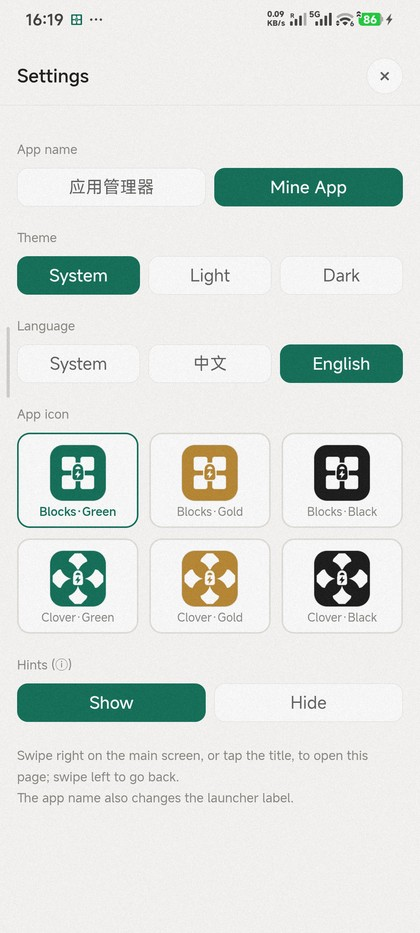
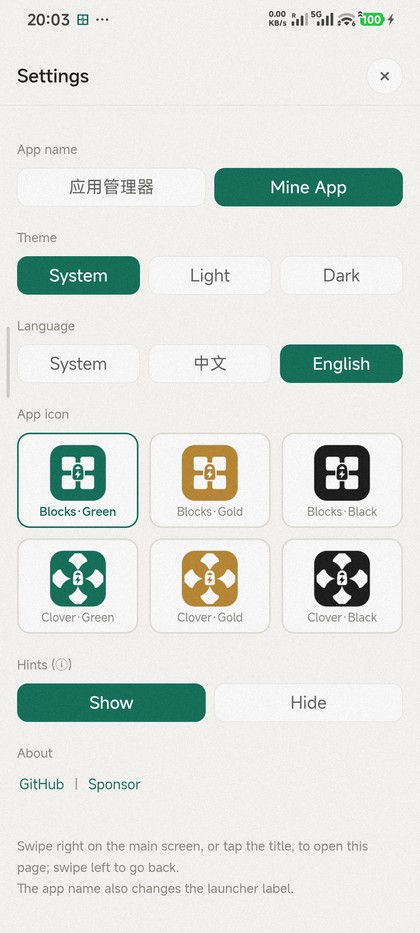
设置页加「GitHub 官方 | 打赏与资助」，截图全部按新版重拍，功能表补新能力
- 设置页新增「关于」区块：GitHub 官方 | 打赏与资助。链接跟随界面语言
  （中文 → 仓库首页 / 英文 → README.en.md），打赏直接跳赞助小节锚点
- MainActivity 加 shouldOverrideUrlLoading：http(s) 外链交给系统浏览器，
  否则 WebView 会直接跳走把 App 界面顶掉
- 四张截图全部重拍（中/英 × 主界面/设置页），换成运存排序视图，
  能看到绿点、× 清理按钮、已限制标签
- 功能表新增：活跃监测（呼吸绿点）、单应用清理（am kill 不动自启动）、应用名解析
- 常驻通知一行补充 3s/60s 双频刷新
- 导语点明中文名「应用管理器」；「逆向能效优化」改为更通俗的「增效提速·降能耗」

diff --git a/termux/webui/server.py b/termux/webui/server.py
@@ -524,6 +524,11 @@ animation:dotPulse 2.2s ease-in-out infinite}
 font-size:14px;color:var(--ink3);border:1px solid var(--track);cursor:pointer;
 user-select:none;-webkit-tap-highlight-color:transparent;transition:background .12s,color .12s}
 .kill-x:active{background:var(--track);color:var(--ink)}
+/* 设置页外链：跳到浏览器打开，不在 WebView 里替换界面 */
+.ext-row{display:flex;align-items:center;gap:8px;padding:2px 0 10px;font-size:13px}
+.ext{color:#0f6e56;text-decoration:none;padding:6px 2px;border-radius:6px}
+.ext:active{background:var(--track)}
+.ext-sep{color:var(--ink3);font-size:12px}
 .refresh{transform-origin:50% 50%;will-change:transform}
 .refresh.spinning{color:#0f6e56}
 .aot-lb{flex:none;font-size:11px;color:var(--ink3);font-family:ui-monospace,monospace;
@@ -680,6 +685,12 @@ color:var(--ink3);cursor:pointer;user-select:none}
       <button class="seg" data-tip="1" data-t="tipShow">显示</button>
       <button class="seg" data-tip="0" data-t="tipHide">隐藏</button>
     </div>
+    <div class="sec" data-t="secAbout">关于</div>
+    <div class="ext-row">
+      <a class="ext" id="lnkRepo" href="https://github.com/henry-97/MineApp">GitHub 官方</a>
+      <span class="ext-sep">|</span>
+      <a class="ext" id="lnkFund" href="https://github.com/henry-97/MineApp#赞助">打赏与资助</a>
+    </div>
     <div class="info-note" style="border-top:0"><span data-t="setEntry">左滑主界面或点标题可再次进入本页。</span><br>
       <span data-t="setNameNote">应用名称会同时改变桌面图标的名称。</span></div>
   </div>
@@ -785,6 +796,7 @@ var I18N = {
     setNameNote: '应用名称会同时改变桌面图标的名称。',
     perfTip: '性能模式',
     secTip: '界面提示（ⓘ）', tipShow: '显示', tipHide: '隐藏',
+    secAbout: '关于', extRepo: 'GitHub 官方', extFund: '打赏与资助',
     secIcon: '应用图标',
     icSq: '方块', icCl: '四叶草', icG: '墨绿', icY: '金色', icK: '黑色',
     tIconOk: '图标已切换，桌面可能需要几秒刷新', tIconFail: '图标切换失败',
@@ -872,6 +884,7 @@ var I18N = {
     setNameNote: 'The app name also changes the launcher label.',
     perfTip: 'Performance',
     secTip: 'Hints (ⓘ)', tipShow: 'Show', tipHide: 'Hide',
+    secAbout: 'About', extRepo: 'GitHub', extFund: 'Sponsor',
     secIcon: 'App icon',
     icSq: 'Blocks', icCl: 'Clover', icG: 'Green', icY: 'Gold', icK: 'Black',
     tIconOk: 'Icon changed; the launcher may take a few seconds', tIconFail: 'Failed to change icon',
@@ -927,6 +940,25 @@ function applyLang(){
   if (bt) bt.innerHTML = T('perfTip') + ' <i class="tip-i">ⓘ</i>';
   var ph = document.querySelectorAll('[data-tp]');
   for (var j = 0; j < ph.length; j++) ph[j].setAttribute('placeholder', T(ph[j].getAttribute('data-tp')));
+  applyExtLinks();
+}
+
+/* 设置页的 GitHub / 打赏链接：跟着界面语言走。
+   中文 → 仓库首页（默认渲染 README.md）；英文 → README.en.md。
+   「打赏与资助」直接跳到 README 里的赞助小节锚点。 */
+var GH = 'https://github.com/henry-97/MineApp';
+function applyExtLinks(){
+  var en = (lang() === 'en');
+  var repo = document.getElementById('lnkRepo');
+  var fund = document.getElementById('lnkFund');
+  if (repo){
+    repo.textContent = T('extRepo');
+    repo.setAttribute('href', en ? (GH + '/blob/main/README.en.md') : GH);
+  }
+  if (fund){
+    fund.textContent = T('extFund');
+    fund.setAttribute('href', en ? (GH + '/blob/main/README.en.md#sponsorship') : (GH + '#赞助'));
+  }
 }
 
 /* ---------- 名称与主题（设置页） ---------- */

diff --git a/appmanager/src/java/com/henry/appmanager/MainActivity.java b/appmanager/src/java/com/henry/appmanager/MainActivity.java
@@ -80,6 +80,35 @@ public class MainActivity extends Activity {
             public void onPageFinished(WebView view, String url) {
                 injectInsets();
             }
+
+            /**
+             * 设置页的 GitHub / 打赏是 http(s) 外链。不拦的话 WebView 会直接跳过去，
+             * 整个 App 界面就被网页顶掉了，返回键也回不来。这里统一交给系统浏览器。
+             */
+            @Override
+            public boolean shouldOverrideUrlLoading(WebView view, android.webkit.WebResourceRequest req) {
+                return openExternal(req == null ? null : req.getUrl());
+            }
+
+            @Override
+            @SuppressWarnings("deprecation")
+            public boolean shouldOverrideUrlLoading(WebView view, String url) {
+                return openExternal(url == null ? null : android.net.Uri.parse(url));
+            }
+
+            private boolean openExternal(android.net.Uri uri) {
+                if (uri == null) return false;
+                String scheme = uri.getScheme();
+                if (!"http".equals(scheme) && !"https".equals(scheme)) return false;
+                try {
+                    Intent i = new Intent(Intent.ACTION_VIEW, uri);
+                    i.addFlags(Intent.FLAG_ACTIVITY_NEW_TASK);
+                    startActivity(i);
+                } catch (Exception e) {
+                    android.util.Log.w("Main", "打开外链失败: " + e);
+                }
+                return true;
+            }
         });
 
         try {

diff --git a/appmanager/tools/gen_manifest.py b/appmanager/tools/gen_manifest.py
@@ -20,7 +20,7 @@ HEAD = '''<?xml version="1.0" encoding="utf-8"?>
 <!-- 由 tools/gen_manifest.py 生成，不要手改；改完跑一次 gen_manifest.py。 -->
 <manifest xmlns:android="http://schemas.android.com/apk/res/android"
     package="com.henry.appmanager"
-    android:versionCode="37"
+    android:versionCode="39"
     android:versionName="1.3.2">
 
     <uses-sdk android:minSdkVersion="26" android:targetSdkVersion="35" />

diff --git a/README.en.md b/README.en.md
@@ -76,8 +76,11 @@ that single `adb tcpip` keeps working; after a reboot, just run it once more.
 | **AOT compile** | `cmd package compile -m speed` — pre-compiles dex to native code for faster cold starts; **per-app or in bulk**, with a live percentage |
 | **Performance profile tuning** | One-tap system performance governor, automatically re-applied if the ROM reverts it |
 | **Memory sort** | Sort by PSS to see exactly what is eating RAM; live aggregate of the selected apps' memory |
+| **Activity monitor** | A **pulsing green dot** on the memory line marks apps that are actually running (based on the system's oom adj — plain cached processes and "recently used, now in background" do not count) |
+| **Per-app cleanup** | An **×** on every row runs `am kill` — clears background processes only. **Auto-start and enabled state are untouched**, so the next launch is a normal cold start |
+| **Real app names** | Resolved through the system's `loadLabel`, so all 598 apps show their real names instead of package names |
 | **Batch actions** | Select many apps, then archive / restore / restrict / unrestrict in one go |
-| **Ongoing notification** | Battery health, memory usage and archive count in the status bar |
+| **Ongoing notification** | Battery health, memory usage and archive count in the status bar; memory ticks every 3 s, battery/counts every 60 s — barely any battery cost |
 | **Appearance** | 6 icon sets (blocks / clover × green / gold / black), two app names, light & dark theme, Chinese & English |
 | **List cache** | The fetched list is cached locally; re-entering within a minute does not refetch |
 
